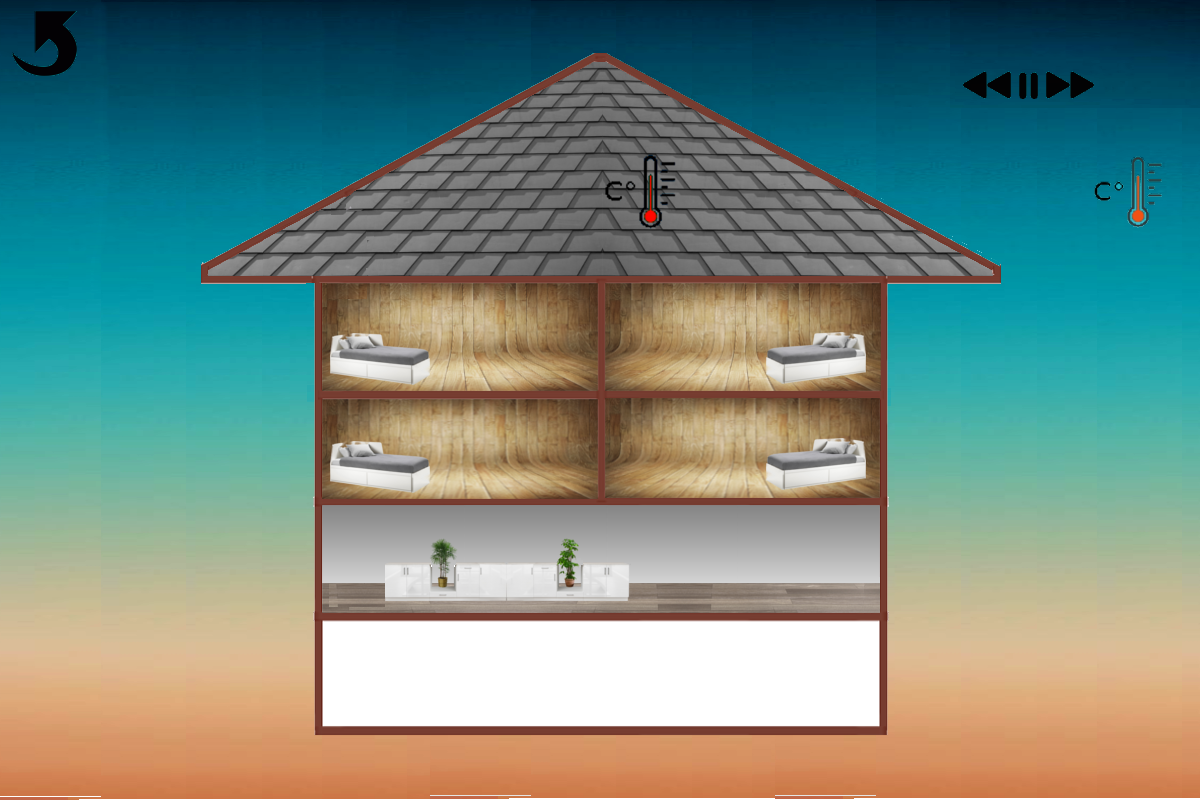
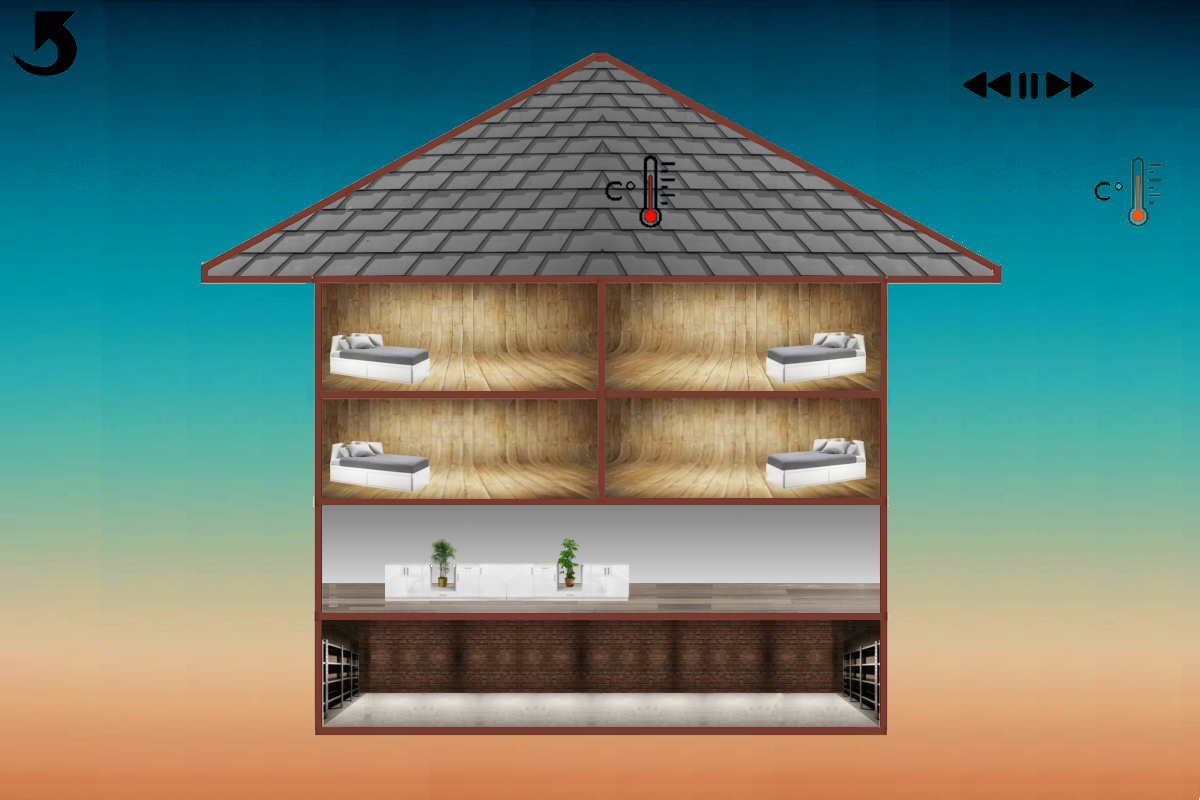
l

Changed region(s): [[0.2467, 0.75, 0.74, 0.9062], [0.7092, 0.9688, 0.74, 1.0]]

diff --git a/Tomaro_v2/Affichage.py b/Tomaro_v2/Affichage.py
@@ -118,7 +118,7 @@ def affichage_foyer(fenetre,site,date,is_nuit,index_foyer,degre):
 	if(is_nuit==False):
 		background = pygame.image.load("Image/Background_foyer_jour.png").convert()
 	else:
-		background = pygame.image.load("Image/Background_foyer_jour.png").convert()
+		background = pygame.image.load("Image/Background_foyer_nuit.png").convert()
 	fenetre.blit(background,(0,0))
 
 	#Date
@@ -410,6 +410,9 @@ def affichage_foyer(fenetre,site,date,is_nuit,index_foyer,degre):
 			fenetre.blit(grille_pain_on,(518,544))	
 
 	#Garage
+	if is_nuit==True and site.liste_foyer[index_foyer].machine_a_laver.allume==False and site.liste_foyer[index_foyer].seche_linge.allume==False and site.liste_foyer[index_foyer].lave_vaisselle.allume==False:
+		background_cave_sombre=pygame.image.load("Image/Background_cave_sombre.png").convert_alpha()
+		fenetre.blit(background_cave_sombre,(321,619))
 	if site.liste_foyer[index_foyer].machine_a_laver.allume==True:
 		machine_a_laver=pygame.image.load("Image/Machine_a_laver_on.png").convert_alpha()
 	else:
